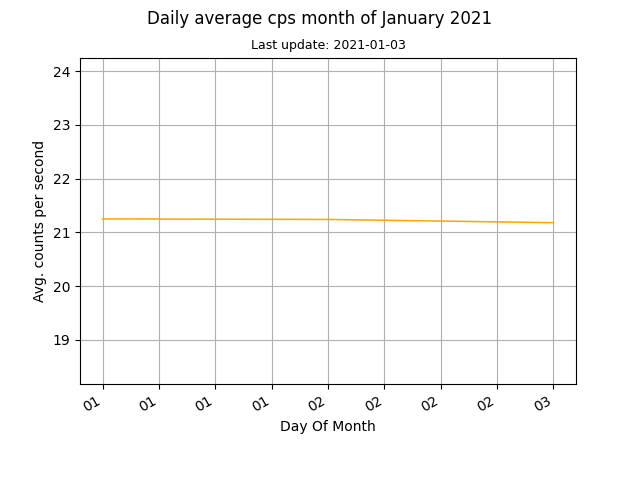
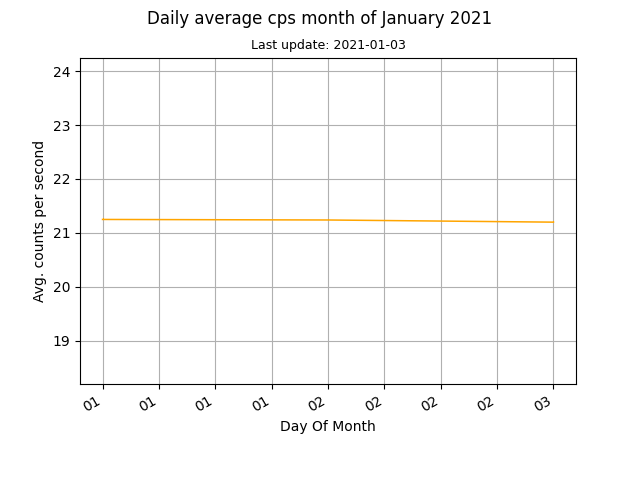
auto data update

diff --git a/docs/index.html b/docs/index.html
@@ -45,8 +45,8 @@
 	
 	<br>
 	
-	<p>Current counts per second (cps): 21.23</p>
-	<p>Last update: 2021-01-03, 00:17</p>
+	<p>Current counts per second (cps): 21.26</p>
+	<p>Last update: 2021-01-03, 00:32</p>
 
 	<p><a href="images/monthly.png"><img src="images/monthly.png" alt="Mothly avg cps data"></a><a href="images/daily.png"><img src="images/daily.png" alt="Daily avg cps data"></a></p>
 	
